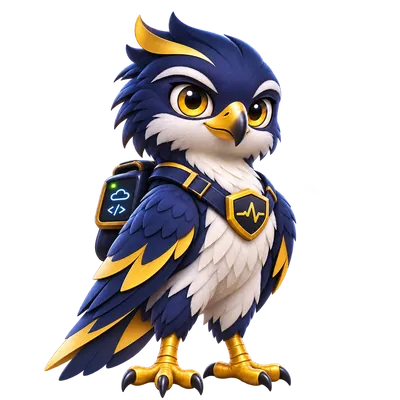
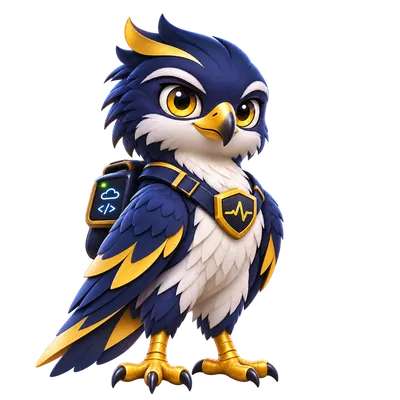
web: smoother wing flap for Scout
The flap jumped between three positions (folded, spread low, raised
high), so it flickered. Five new in-between frames take the wings up in
small steps; a flap now plays them up, down and up again, one step at a
time, over about a second.

The new originals were drawn up to 64 px left of the rest frame and some
a few percent larger, so each was scaled and shifted until his face,
badge and feet lined up. The frames now sit on a 1290 px canvas so the
spread wings fit, and the strip has 11 frames (324 KB, still loaded only
after the page).

Also: a hello wave due while he is mid-flap now waits for the flap to
end instead of being skipped (which also stopped him ever blinking).
The frame numbers and sequences move to scoutSteps.ts for fast refresh.

Changed region(s): [[0.09, 0.03, 0.75, 1.0]]

diff --git a/web/src/components/AnimatedScout.test.tsx b/web/src/components/AnimatedScout.test.tsx
@@ -1,7 +1,8 @@
 import { act, fireEvent, render } from '@testing-library/react'
 import { afterEach, beforeEach, describe, expect, it, vi } from 'vitest'
 import { brand } from '../brand'
-import { AnimatedScout, HELLO_DELAY_MS } from './AnimatedScout'
+import { AnimatedScout } from './AnimatedScout'
+import { FLAP_MS, HELLO_DELAY_MS } from './scoutSteps'
 
 function motion(reduced: boolean) {
   vi.stubGlobal('matchMedia', (q: string) => ({ matches: reduced && q.includes('reduce'), media: q, addEventListener() {}, removeEventListener() {} }))
@@ -50,9 +51,9 @@ describe('AnimatedScout', () => {
     expect(loaded).toEqual([brand.scoutMotion.frames])
     expect(frame(container)).toBe('0')
     advance(HELLO_DELAY_MS)
-    expect(frame(container)).toBe('4') // the wave's first step
+    expect(frame(container)).toBe('2') // the wave's first step
     advance(1100)
-    expect(frame(container)).toBe('7') // thumbs-up, straight after the wave
+    expect(frame(container)).toBe('5') // thumbs-up, straight after the wave
     advance(1800)
     expect(frame(container)).toBe('0') // back at rest
     advance(4250)
@@ -71,26 +72,42 @@ describe('AnimatedScout', () => {
       advance(4250) // idle moments are 4.25 s apart with Math.random at 0.5
       seen.push(frame(container)!)
     }
-    expect(seen).toEqual(['1', '1', '1', '7'])
+    expect(seen).toEqual(['1', '1', '1', '5'])
   })
 
-  it('flaps and hops when tapped, but not in the middle of another move', async () => {
+  it('flaps and hops when tapped, through every wing step, but not in the middle of another move', async () => {
     motion(false)
     const { container } = render(<AnimatedScout />)
     await act(async () => {})
     const scout = container.firstElementChild as HTMLElement
     fireEvent.click(scout)
     expect(scout).toHaveClass('is-flapping')
-    expect(frame(container)).toBe('3') // wings down
-    advance(90)
-    expect(frame(container)).toBe('2') // wings up
-    advance(500)
+    const steps = [frame(container)]
+    for (let t = 10; t < FLAP_MS; t += 10) {
+      advance(10)
+      if (steps.at(-1) !== frame(container)) steps.push(frame(container))
+    }
+    // Up through all five steps, down to the second, up again, and down to rest: the wings never skip a step.
+    expect(steps).toEqual(['6', '7', '8', '9', '10', '9', '8', '7', '8', '9', '10', '9', '8', '7', '6'])
+    advance(10)
     expect(frame(container)).toBe('0')
     expect(scout).not.toHaveClass('is-flapping')
     // The hello wave is due now; a tap during it changes nothing.
-    advance(HELLO_DELAY_MS - 590)
+    advance(HELLO_DELAY_MS - FLAP_MS)
     fireEvent.click(scout)
     expect(scout).not.toHaveClass('is-flapping')
-    expect(frame(container)).toBe('4')
+    expect(frame(container)).toBe('2')
+  })
+
+  it('waits for a flap to finish before waving hello, and still goes on to blink', async () => {
+    motion(false)
+    const { container } = render(<AnimatedScout />)
+    await act(async () => {})
+    advance(HELLO_DELAY_MS - 200)
+    fireEvent.click(container.firstElementChild as HTMLElement) // a flap that runs past the moment the hello is due
+    advance(FLAP_MS + 150)
+    expect(frame(container)).toBe('2') // the hello, a little late
+    advance(1040 + 1800 + 4250)
+    expect(frame(container)).toBe('1') // and the blinking has started
   })
 })

diff --git a/web/src/components/AnimatedScout.tsx b/web/src/components/AnimatedScout.tsx
@@ -1,28 +1,7 @@
 import { useCallback, useEffect, useRef, useState, type CSSProperties } from 'react'
 import { brand } from '../brand'
 import { prefersReducedMotion } from '../motion'
-
-/** Frames in brand.scoutMotion.frames, left to right. */
-const REST = 0
-const BLINK = 1
-const WINGS_UP = 2
-const WINGS_DOWN = 3
-const WAVE = [4, 5, 6]
-const THUMBS_UP = 7
-
-/** A sequence of [frame, milliseconds]; he returns to rest after the last one. */
-type Steps = [number, number][]
-
-const HELLO: Steps = [[WAVE[0], 140], [WAVE[1], 140], [WAVE[2], 170], [WAVE[1], 140], [WAVE[2], 170], [WAVE[1], 140], [WAVE[0], 140]]
-const FLAP: Steps = [[WINGS_DOWN, 90], [WINGS_UP, 110], [WINGS_DOWN, 90], [WINGS_UP, 110], [WINGS_DOWN, 100]]
-const BLINK_ONCE: Steps = [[BLINK, 130]]
-const BLINK_TWICE: Steps = [[BLINK, 110], [REST, 120], [BLINK, 110]]
-const ALL_GOOD: Steps = [[THUMBS_UP, 1800]]
-/** Every this many idle moments, he gives a thumbs-up instead of blinking. */
-const THUMBS_UP_EVERY = 4
-
-/** Wait before the hello wave: long enough for the hero's rise-in to finish (index.css, .hero-scout). */
-export const HELLO_DELAY_MS = 1100
+import { ALL_GOOD, BLINK_ONCE, BLINK_TWICE, FLAP, HELLO, HELLO_DELAY_MS, REST, THUMBS_UP_EVERY, type Steps } from './scoutSteps'
 
 /**
  * Scout, animated: he waves hello, gives a thumbs-up, blinks now and then, and flaps his wings when pointed at or tapped. The still rest frame shows first;
@@ -84,7 +63,9 @@ export function AnimatedScout({ size = 160, className = '' }: { size?: number; c
         idle()
       }, 2500 + Math.random() * 3500)
     }
-    later(() => play(HELLO, () => play(ALL_GOOD, idle)), HELLO_DELAY_MS)
+    // If he is mid-flap when the hello is due, it waits for the flap to end rather than being skipped (the blinking starts after it).
+    const hello = () => { if (!play(HELLO, () => play(ALL_GOOD, idle))) later(hello, 150) }
+    later(hello, HELLO_DELAY_MS)
     return () => { timers.current.forEach(clearTimeout); timers.current = []; busy.current = false }
   }, [ready, play, later])
 

diff --git a/web/src/components/scoutSteps.ts b/web/src/components/scoutSteps.ts
@@ -1,0 +1,31 @@
+/** What AnimatedScout plays: the frames of brand.scoutMotion.frames, and the sequences made from them. */
+
+/** Frames in brand.scoutMotion.frames, left to right. */
+export const REST = 0
+export const BLINK = 1
+export const WAVE = [2, 3, 4]
+export const THUMBS_UP = 5
+/** Five steps of raising his wings, from just lifting off his body to raised high. */
+export const WING = [6, 7, 8, 9, 10]
+
+/** A sequence of [frame, milliseconds]; he returns to rest after the last one. */
+export type Steps = [number, number][]
+
+export const HELLO: Steps = [[WAVE[0], 140], [WAVE[1], 140], [WAVE[2], 170], [WAVE[1], 140], [WAVE[2], 170], [WAVE[1], 140], [WAVE[0], 140]]
+/** One and a half wingbeats through every step, so the wings never jump: up a little slower, a beat at the top, down quicker. */
+export const FLAP: Steps = [
+  [WING[0], 60], [WING[1], 60], [WING[2], 60], [WING[3], 70], [WING[4], 120],
+  [WING[3], 50], [WING[2], 50], [WING[1], 90],
+  [WING[2], 60], [WING[3], 70], [WING[4], 120],
+  [WING[3], 50], [WING[2], 50], [WING[1], 60], [WING[0], 70],
+]
+/** How long a flap lasts, in milliseconds. */
+export const FLAP_MS = FLAP.reduce((sum, [, ms]) => sum + ms, 0)
+export const BLINK_ONCE: Steps = [[BLINK, 130]]
+export const BLINK_TWICE: Steps = [[BLINK, 110], [REST, 120], [BLINK, 110]]
+export const ALL_GOOD: Steps = [[THUMBS_UP, 1800]]
+/** Every this many idle moments, he gives a thumbs-up instead of blinking. */
+export const THUMBS_UP_EVERY = 4
+
+/** Wait before the hello wave: long enough for the hero's rise-in to finish (index.css, .hero-scout). */
+export const HELLO_DELAY_MS = 1100

diff --git a/web/src/brand.ts b/web/src/brand.ts
@@ -59,10 +59,10 @@ export const brand = {
   scout: { wave: scoutWave, check: scoutCheck, stand: scoutStand, alert: scoutAlert },
   /**
    * Scout in motion, for the AnimatedScout component. rest: him standing, wings folded (400x400, shown first and to people who prefer
-   * reduced motion). frames: eight 400x400 frames side by side, his body lined up across all of them: rest, blink, wings up, wings down,
-   * three steps of a wave, and a thumbs-up with a green check.
+   * reduced motion). frames: eleven 400x400 frames side by side, his body lined up across all of them: rest, blink, three steps of a wave,
+   * a thumbs-up with a green check, and five steps of raising his wings.
    */
-  scoutMotion: { rest: scoutRest, frames: scoutFrames, count: 8 },
+  scoutMotion: { rest: scoutRest, frames: scoutFrames, count: 11 },
   /** Background art for the /monitoring page: a gold hawk's eye on navy, and the night Earth with connection arcs. No text in either. */
   art: { hawkEye: monitoringHawkEye, earth: monitoringEarth },
   /** Real screens of the app with sample data (scripts/screenshots): the dashboard, the incidents list and the alert email. */

diff --git a/docs/branding.md b/docs/branding.md
@@ -30,12 +30,14 @@ with ChatGPT and then cut out, cropped and resized outside the repository. **The
   health. He is too detailed to read below about 64 px, so favicons and small icons stay with the logo badge.
 - **Scout in motion** (`scout-rest.webp`, `scout-frames.webp`): the landing hero's Scout, in front of the laptop, rendered with
   `components/AnimatedScout.tsx`. He waves hello once the page has loaded and gives a thumbs-up with a green check, then blinks every few seconds (every
-  fourth time, a thumbs-up instead), and flaps his wings with a small hop when pointed at or tapped. The frames come from eight 1254x1254 originals of one
-  pose (rest, blink, wings up, wings down, three wave steps, thumbs-up), also kept by the product owner. The three wave originals and the thumbs-up had him
-  drawn 18 to 44 px left of the others, so each was shifted until he lined up with the rest frame (feet within about 1 px at display size), placed on a
-  1270x1270 square wide enough for spread wings, resized to 400x400 and joined left to right into one strip: lossy WebP with alpha, 237 KB.
-  `scout-rest.webp` is the first frame alone (29 KB): it shows first, the strip loads only after the page has, and people who prefer reduced motion
-  keep the still and never download the strip. New frames must line up the same way, or he jitters as they change.
+  fourth time, a thumbs-up instead), and flaps his wings with a small hop when pointed at or tapped. The frames come from eleven 1254x1254 originals of
+  one pose (rest, blink, three wave steps, thumbs-up, and five steps of raising his wings, from just lifting off his body to raised high), also kept by
+  the product owner. A flap plays the five wing steps up, down and up again, one step at a time, so the wings never jump. Most originals had him drawn
+  up to 64 px left of the rest frame, and some of the wing steps a few percent larger, so each was shifted (and, for the wing steps, scaled) until his
+  face, badge and feet lined up with the rest frame, then placed on a 1290x1290 square wide enough for spread wings, resized to 400x400 and joined left
+  to right into one strip: lossy WebP with alpha, 324 KB. `scout-rest.webp` is the first frame alone (29 KB): it shows first, the strip loads only after
+  the page has, and people who prefer reduced motion keep the still and never download the strip. New frames must line up the same way, or he jitters
+  as they change.
 - **Scout in emails** (`web/public/email/scout-welcome.png`, `-monitor-down.png`, `-test-alert.png`, served at `/email/` like the logo): set with
   `email.Content.Picture`, which shows him at 112 px beside the heading, HTML only and with empty alt text (the text says everything). **Welcome** (waving)
   is on the "Confirm your email address" email, the first one a new account gets. **Monitor down** (worried, holding an envelope with a red warning) is on
